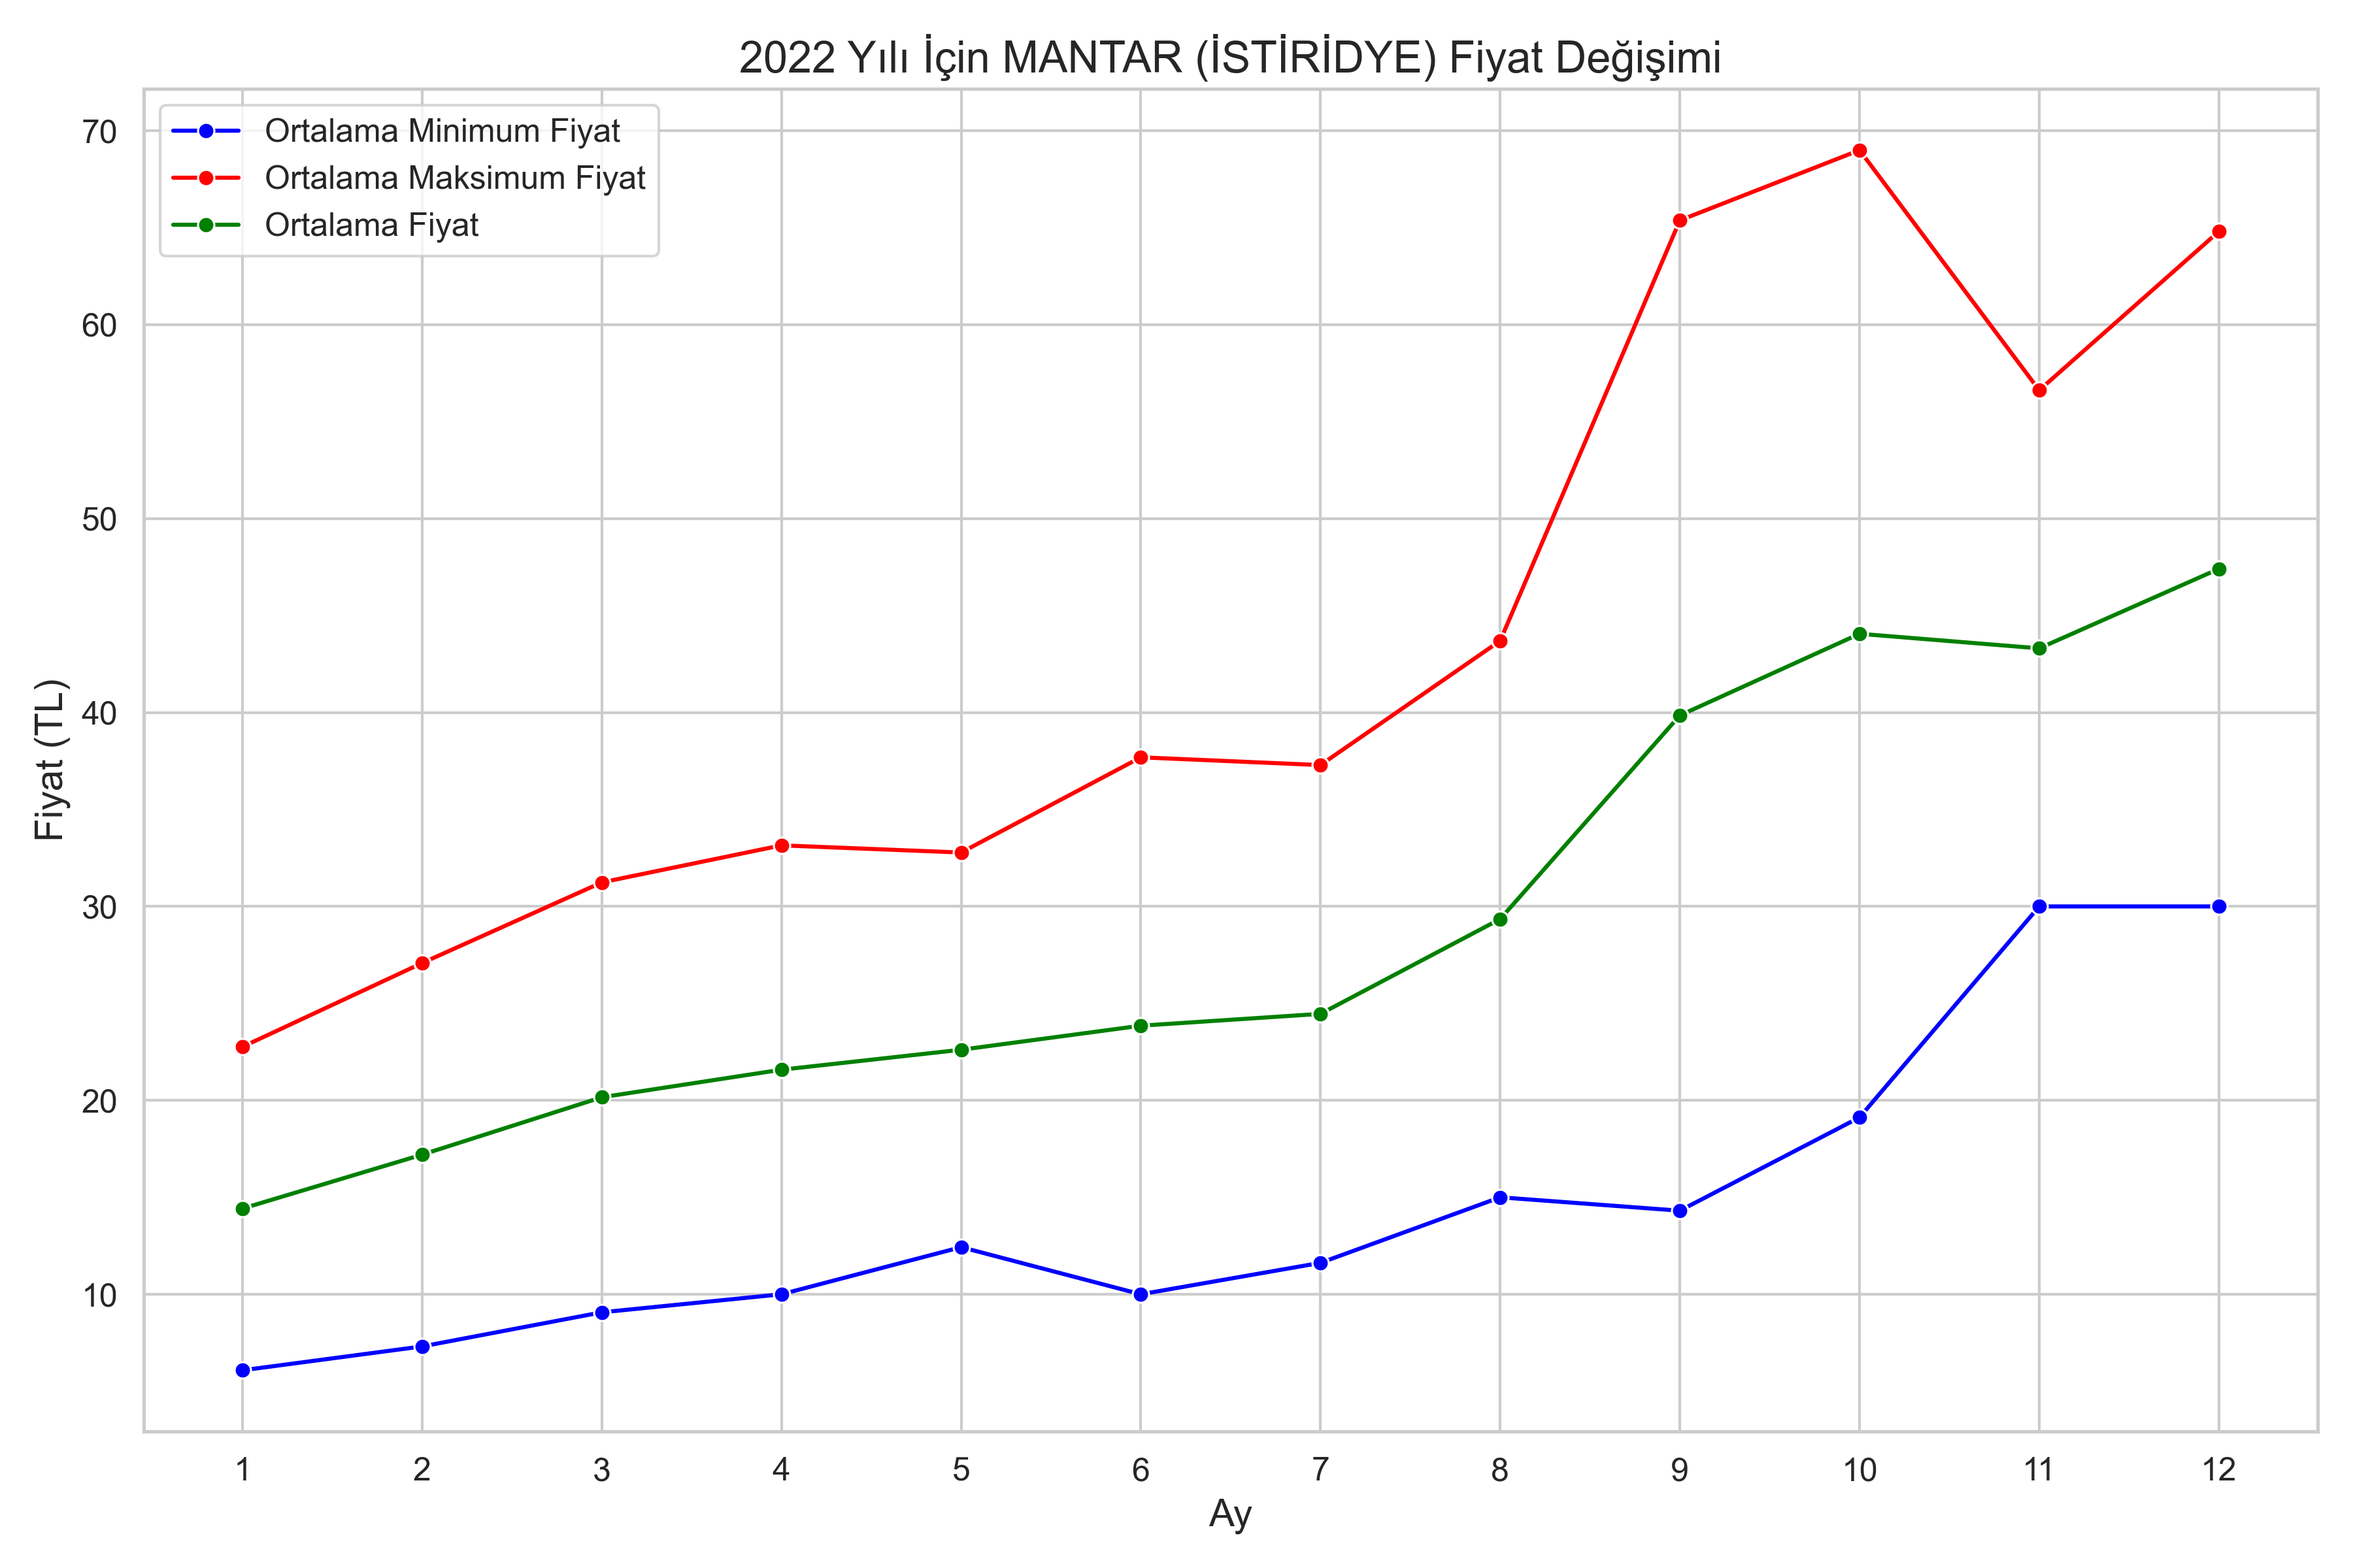
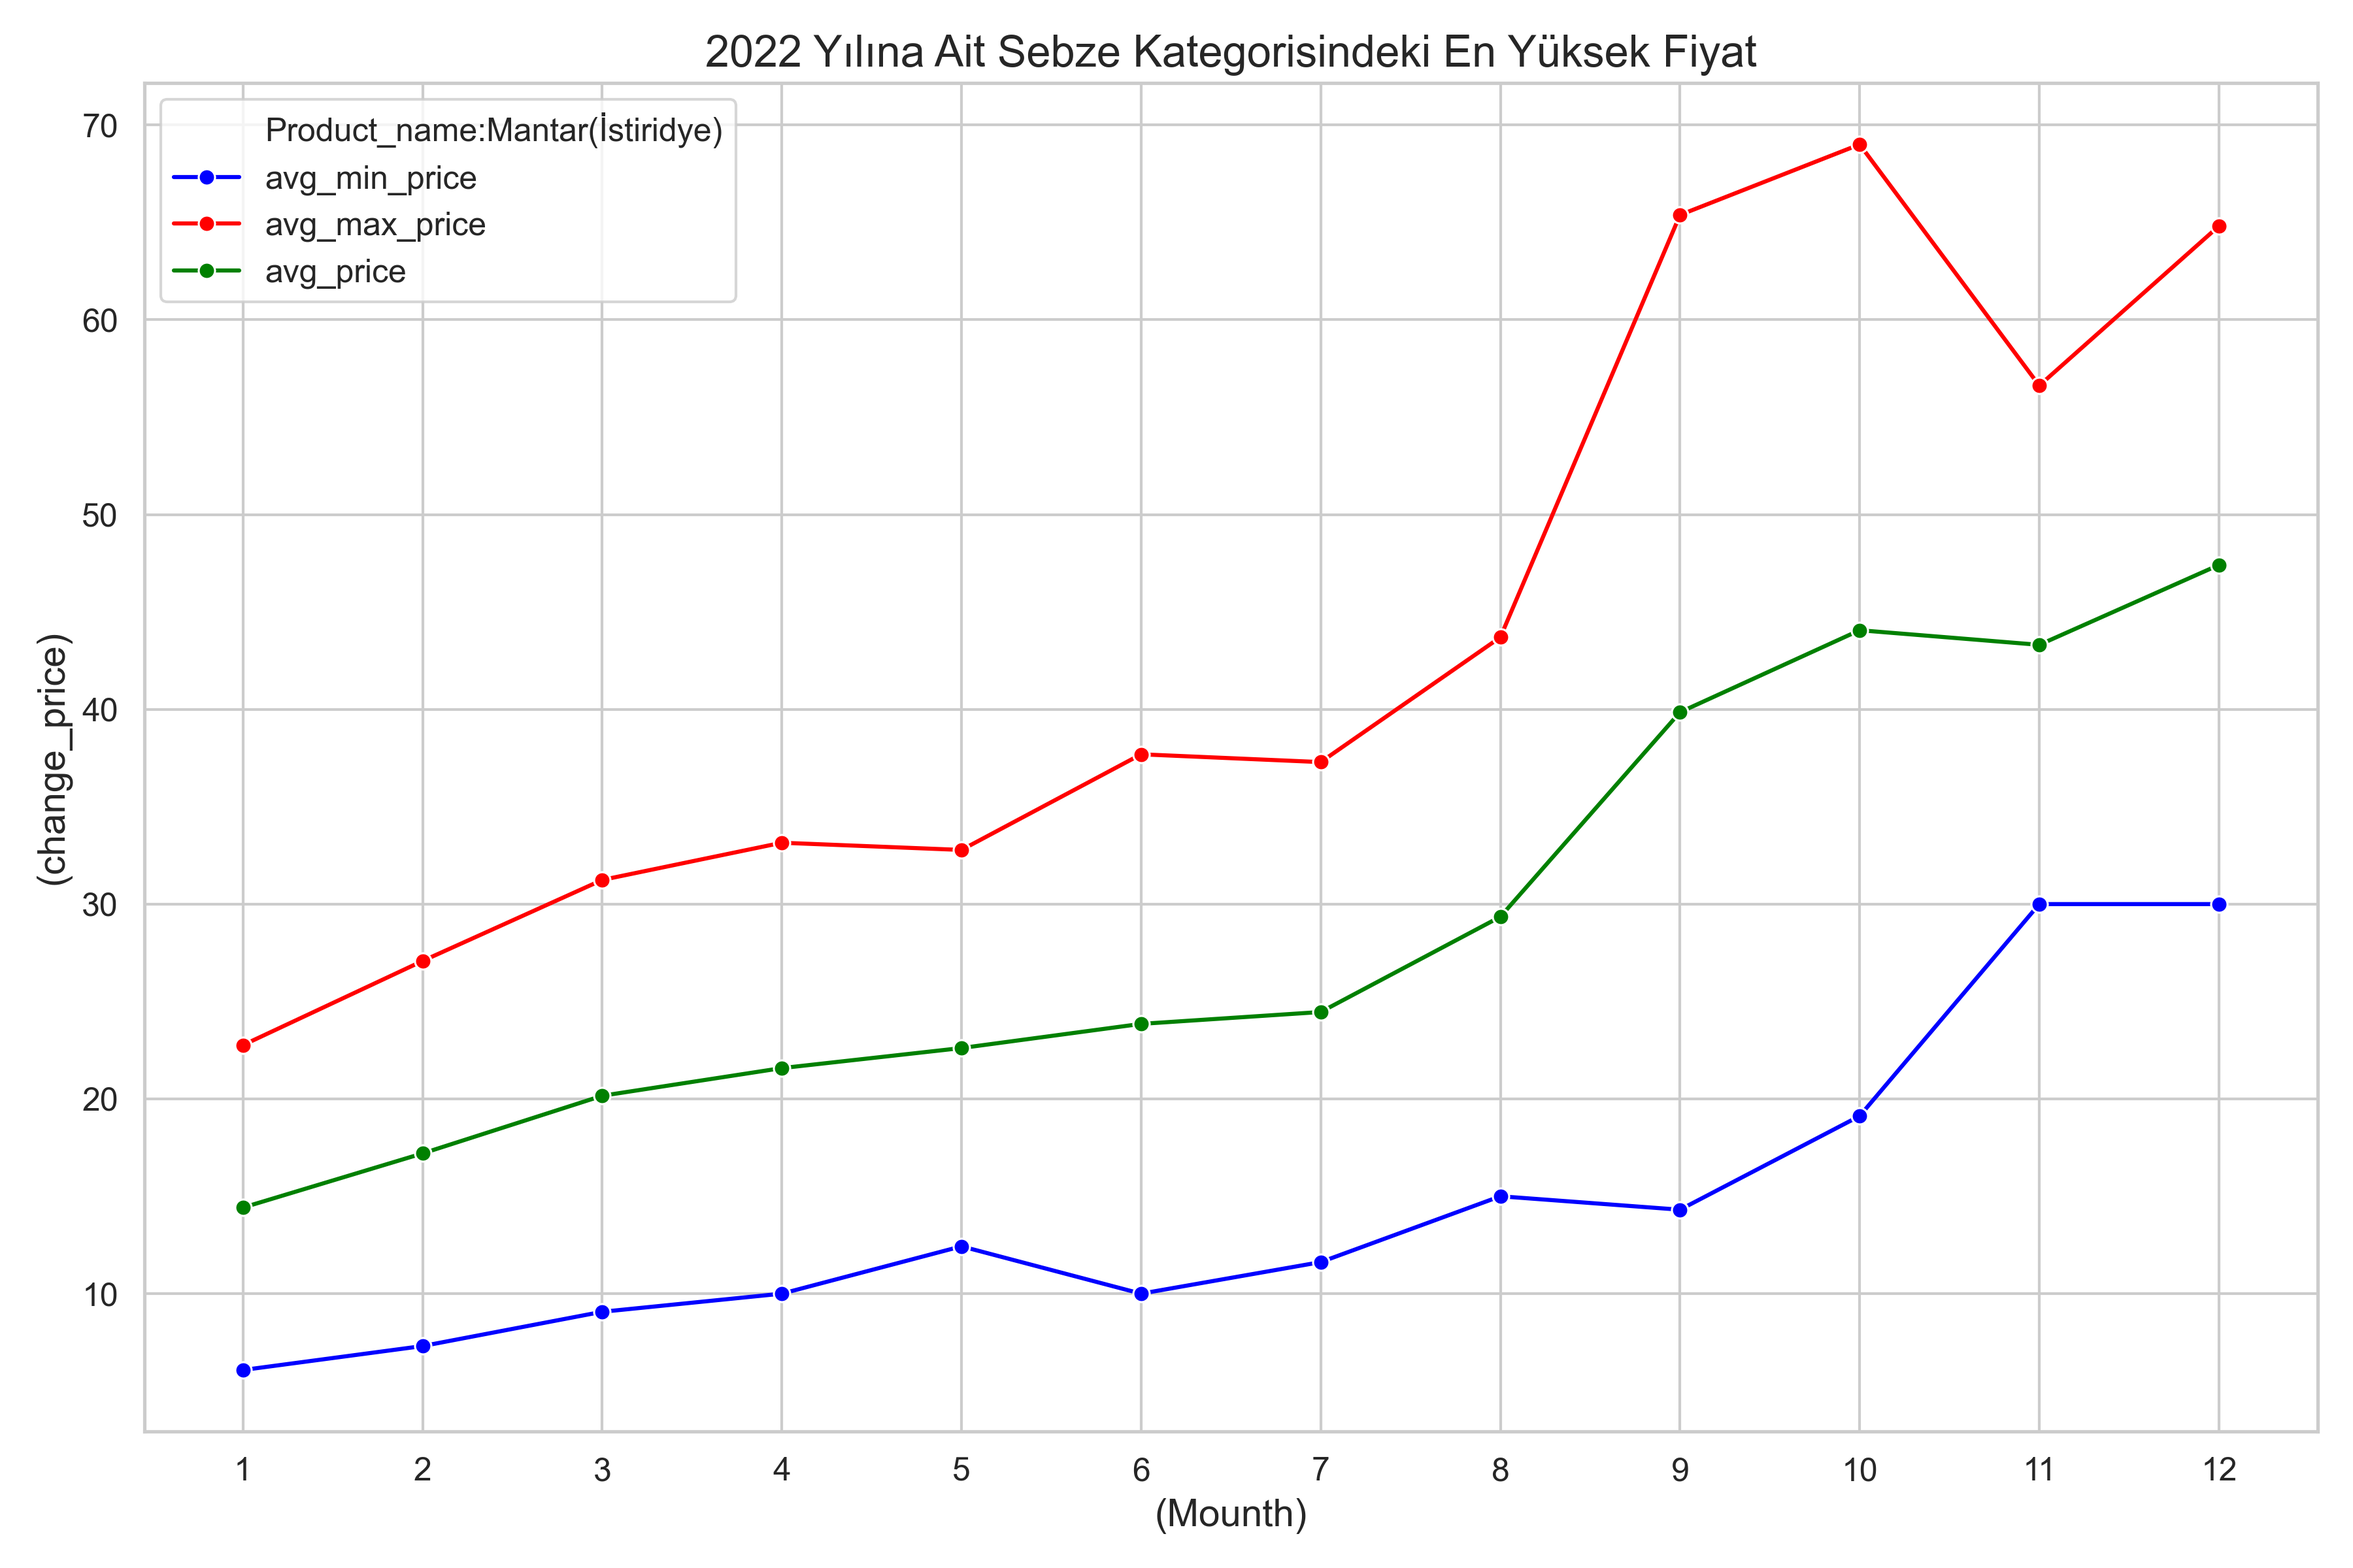
alpson3

diff --git a/scripts/2022_yilina_ait_sebze_kategorisindeki_en_yuksek_fiyat_mantar_fiyat_degisimi_grafik.py b/scripts/2022_yilina_ait_sebze_kategorisindeki_en_yuksek_fiyat_mantar_fiyat_degisimi_grafik.py
@@ -37,14 +37,15 @@ try:
     plt.figure(figsize=(12,8))
 
     # Çizgi grafikleri
-    sns.lineplot(x=df['month'], y=df['avg_min_price'], label='Ortalama Minimum Fiyat', color='blue', marker='o')
-    sns.lineplot(x=df['month'], y=df['avg_max_price'], label='Ortalama Maksimum Fiyat', color='red', marker='o')
-    sns.lineplot(x=df['month'], y=df['avg_avg_price'], label='Ortalama Fiyat', color='green', marker='o')
+    plt.plot([], [], ' ', label='Product_name:Mantar(İstiridye)')
+    sns.lineplot(x=df['month'], y=df['avg_min_price'], label='avg_min_price', color='blue', marker='o')
+    sns.lineplot(x=df['month'], y=df['avg_max_price'], label='avg_max_price', color='red', marker='o')
+    sns.lineplot(x=df['month'], y=df['avg_avg_price'], label='avg_price', color='green', marker='o')
 
     # Başlık ve etiketler
-    plt.title('2022 Yılı İçin MANTAR (İSTİRİDYE) Fiyat Değişimi', fontsize=16)
-    plt.xlabel('Ay', fontsize=14)
-    plt.ylabel('Fiyat (TL)', fontsize=14)
+    plt.title('2022 Yılına Ait Sebze Kategorisindeki En Yüksek Fiyat', fontsize=16)
+    plt.xlabel('(Mounth)', fontsize=14)
+    plt.ylabel('(change_price)', fontsize=14)
     plt.xticks(np.arange(1, 13), fontsize=12)
     plt.yticks(fontsize=12)
     plt.legend(fontsize=12)
@@ -52,11 +53,9 @@ try:
     # Daha düzenli görünüm için sıkıştırma
     plt.tight_layout()
 
-    # Grafiği sakla
-    output_path = "outputs/2022 yılına ait sebze kategorisindeki en yüksek fiyat.png"
-    plt.savefig(output_path, format='png', dpi=300)  # Kaydetme işlemi doğru sırada
+   # Grafiği outputs klasörüne kaydetme
+    plt.savefig('outputs/2022 Yılına Ait Sebze Kategorisindeki En Yüksek Fiyat.png', dpi=300)
 
-    print(f"Grafik {output_path} yoluna kaydedildi.")
 
     # Grafiği göster
     plt.show()

diff --git a/scripts/2022_2023_2024_yillarinda_ki_en_yuksek_fiyata_sahip_meyve_grafik.py b/scripts/2022_2023_2024_yillarinda_ki_en_yuksek_fiyata_sahip_meyve_grafik.py
@@ -1,0 +1,47 @@
+import mysql.connector
+import pandas as pd
+import matplotlib.pyplot as plt
+
+# Veritabanı bağlantısı ve sorgu
+connection = mysql.connector.connect(
+    host="localhost", user="root", password="0619", database="worksheet1"
+)
+query = """
+SELECT
+    YEAR(date) AS year, MONTH(date) AS month,
+    ROUND(MIN(min_price), 2) AS min_price,
+    ROUND(MAX(max_price), 2) AS max_price,
+    ROUND(AVG(avg_price), 2) AS avg_price
+FROM worksheet
+WHERE name = 'ERİK  CAN' AND YEAR(date) IN (2022, 2023, 2024)
+GROUP BY year, month
+ORDER BY year, month;
+"""
+df = pd.read_sql(query, connection)
+connection.close()
+
+# Tarih sütunu oluşturuluyor
+df['date'] = pd.to_datetime(df[['year', 'month']].assign(day=1))
+
+# Grafik
+plt.figure(figsize=(12, 6))
+plt.plot([], [], ' ', label='Product_name:Erik Can')
+plt.plot(df['date'], df['min_price'], 'ro-', label='min_price')
+plt.plot(df['date'], df['max_price'], 'gs-', label='max_price')
+plt.plot(df['date'], df['avg_price'], 'bx-', label='avg_price')
+
+
+
+# Başlık ve etiketler
+plt.title('2022-2023-2024 Yıllarında En Yüksek Fiyata Sahip Meyve')
+plt.xlabel('(Date)')
+plt.ylabel('(change_price)')
+plt.grid(True, linestyle='--', alpha=0.6)
+plt.legend()
+plt.tight_layout()
+# Grafiği outputs klasörüne kaydetme
+plt.savefig('outputs/2022 2023 2024 Yillarinda En Yuksek Fiyata Sahip Meyve', dpi=300)
+
+plt.show()
+
+

diff --git a/scripts/2022_yilina_ait_meyve_kategorisindeki_en_yuksek_fiyat_can_erigi_fiyat_degisimi_grafik.py b/scripts/2022_yilina_ait_meyve_kategorisindeki_en_yuksek_fiyat_can_erigi_fiyat_degisimi_grafik.py
@@ -41,23 +41,21 @@ try:
     plt.figure(figsize=(12, 8))
 
     # Çizgi grafiklerini oluşturma
+    plt.plot([], [], ' ', label='Product_name:ERIK CAN')
     sns.lineplot(x=df['month'], y=df['avg_min_price'], label='Ortalama Minimum Fiyat', color='blue', marker='o')
     sns.lineplot(x=df['month'], y=df['avg_max_price'], label='Ortalama Maksimum Fiyat', color='red', marker='o')
     sns.lineplot(x=df['month'], y=df['avg_avg_price'], label='Ortalama Fiyat', color='green', marker='o')
 
     # Başlık ve etiketleri belirleme
-    plt.title('2022 Yılı İçin ERİK CAN Fiyat Değişimi', fontsize=14)
-    plt.xlabel('(Mounth)', fontsize=12)
-    plt.ylabel('(change_price)', fontsize=12)
+    plt.title('2022 Yılına Ait Meyve Kategorisindeki En Yüksek Fiyat', fontsize=14)
+    plt.xlabel('(Month)', fontsize=12)
+    plt.ylabel('(Change Price)', fontsize=12)
     plt.xticks(np.arange(1, 13), fontsize=12)
     plt.yticks(fontsize=12)
     plt.legend(fontsize=12)
 
-    # Kaydetme yolunu belirleme
-    output_path = "outputs/2022 yılına ait meyve kategorisindeki en yüksek fiyat.png"
-    plt.savefig(output_path, format='png', dpi=300)  
-
-    print(f"Grafik {output_path} yoluna kaydedildi.")
+    # Grafiği outputs klasörüne kaydetme
+    plt.savefig('outputs/2022 yılına ait meyve kategorisindeki en yüksek fiyat.png', dpi=300)
 
     # Grafiği göster
     plt.show()

diff --git a/scripts/2022_yili_icindeki_en_yuksek_fiyata_sahip_urun_ve_fiyat_degisimi_grafik.py b/scripts/2022_yili_icindeki_en_yuksek_fiyata_sahip_urun_ve_fiyat_degisimi_grafik.py
@@ -45,7 +45,7 @@ plt.tight_layout()
 plt.legend(title=f'Product_name: {product_name}', loc='upper right', fontsize=8, frameon=True)
 
 # Grafik çıktısını outputs klasörüne kaydetme
-plt.savefig('outputs/2022 Yılı İçindeki En Yüksek Fiyata Sahip Ürün Ve Fiyat Değişimi.png')
+plt.savefig('outputs/2022 Yılı İçindeki En Yüksek Fiyata Sahip Ürün Ve Fiyat Değişimi.png',dpi=300)
 
 # Grafiği göster
 plt.show()

diff --git a/scripts/2022_yili_icindeki_en_dusuk_fiyata_sahip_urun_ve_fiyat_degisim_grafik.py b/scripts/2022_yili_icindeki_en_dusuk_fiyata_sahip_urun_ve_fiyat_degisim_grafik.py
@@ -46,7 +46,7 @@ plt.legend(title=f'Product_name: {product_name}', loc='upper right', fontsize=8,
 
 
 # Grafik çıktısını outputs klasörüne kaydetme
-plt.savefig('outputs/2022 Yılı İçindeki En Düşük Fiyata Sahip Ürün Ve Fiyat Değişimi.png')
+plt.savefig('outputs/2022 Yılı İçindeki En Düşük Fiyata Sahip Ürün Ve Fiyat Değişimi.png',dpi=300)
 
 
 # Grafiği göster

diff --git a/scripts/fiyatıi_100un_uzerinde_artan_ithal_ürünlerin_fiyat_degisim_analizi.py b/scripts/fiyatıi_100un_uzerinde_artan_ithal_ürünlerin_fiyat_degisim_analizi.py
@@ -12,7 +12,7 @@ connection.close()
 
 # Grafik Çizimi
 plt.figure(figsize=(15, 8))
-ax = plt.gca()  # Alt ekseni al
+ax = plt.gca()  
 
 # Çubuğun genişliğini belirle
 bar_width = 0.4
@@ -47,7 +47,6 @@ plt.grid(True, linestyle='--', alpha=0.7)
 
 # Y ekseninin sınırlarını belirle
 plt.ylim(0, 180)
-
 plt.tight_layout()
 
 # Kaydetme yolunu belirleme

diff --git a/scripts/fiyatıi_100un_uzerinde_artan_sebze_turlerinin_fiyat_degisim_analizi.py b/scripts/fiyatıi_100un_uzerinde_artan_sebze_turlerinin_fiyat_degisim_analizi.py
@@ -44,7 +44,7 @@ plt.tight_layout()
 # Kaydetme yolunu belirleme
 output_path = "outputs/Fiyatı %100'ün Üzerinde Artan Sebze Türlerinin Fiyat Değişim Analizi.png"
 plt.tight_layout()  
-plt.savefig(output_path, format='png', dpi=300)  # Grafiği belirtilen yol ile kaydet
+plt.savefig(output_path, format='png', dpi=300)  
 
 
 
